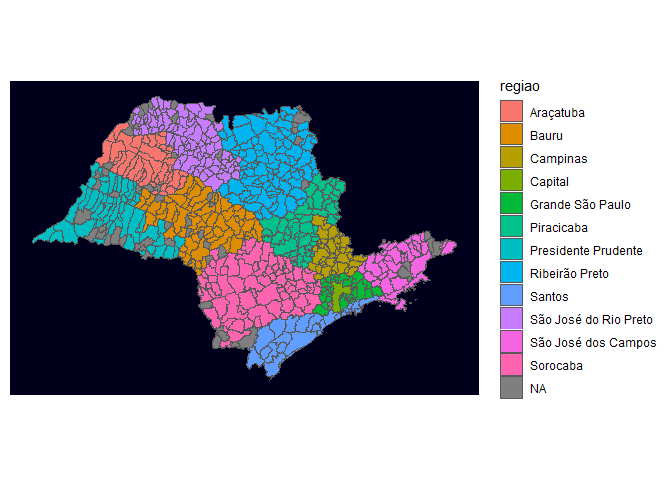
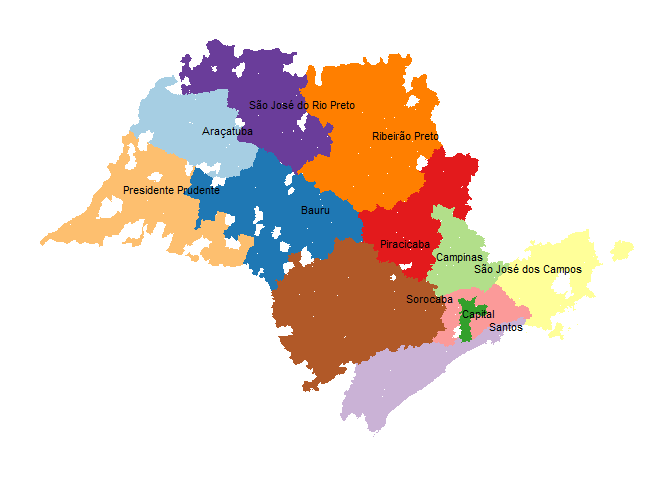
Corrigida estética dos gráficos

diff --git a/README.md b/README.md
@@ -126,21 +126,6 @@ medidas, adotou-se os seguintes padrões:
     também para os dados da pandemia (base `COVID`). Assim, os dados
     foram apresentados considerando as mesmas 12 regiões.
 
-|  Regiões Utilizadas   |
-| :-------------------: |
-|       Araçatuba       |
-|         Bauru         |
-|       Campinas        |
-|        Capital        |
-|   Grande São Paulo    |
-|      Piracicaba       |
-|  Presidente Prudente  |
-|    Ribeirão Preto     |
-|        Santos         |
-| São José do Rio Preto |
-|  São José dos Campos  |
-|       Sorocaba        |
-
 ![](README_files/figure-gfm/regioes-1.png)<!-- -->
 
 ## ESTADO DE SÃO PAULO E A COVID-19
@@ -159,11 +144,15 @@ influência da sua alta urbanização dentre muitos outros fatores.
 
 ### Bla bla bla
 
+![](README_files/figure-gfm/graficos_covid_sp-1.png)<!-- -->![](README_files/figure-gfm/graficos_covid_sp-2.png)<!-- -->![](README_files/figure-gfm/graficos_covid_sp-3.png)<!-- -->![](README_files/figure-gfm/graficos_covid_sp-4.png)<!-- -->
+
 ## O CRIME E O ESTADO DE SÃO PAULO
 
 ### Tendências
 
-São Paulo, crimes, bla bla bla Tendência de queda por diversos fatores
+![](README_files/figure-gfm/tendencia_crime-1.png)<!-- --> São Paulo,
+crimes, bla bla bla Tendência de queda por diversos fatores
+![](README_files/figure-gfm/tabela_crimes_pandemia-1.png)<!-- -->
 
 ### Criminalidade durante a pandemia
 
